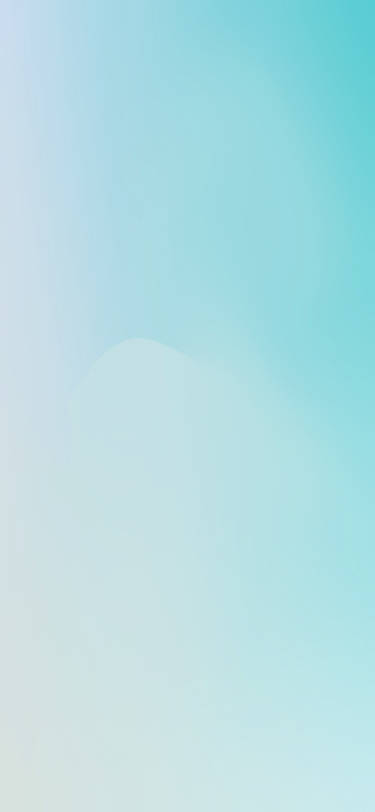
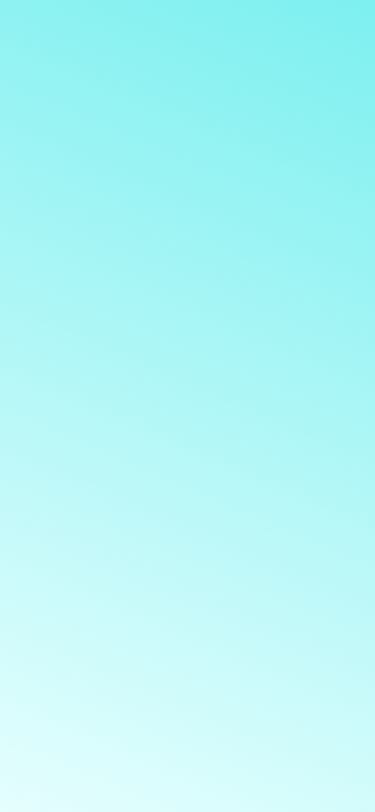
add onboarding_screen.dart

diff --git a/lib/screens/onboarding_screen.dart b/lib/screens/onboarding_screen.dart
@@ -1,0 +1,234 @@
+import 'package:flutter/material.dart';
+import 'package:summify/widgets/backgroung_gradient.dart';
+
+class OnboardingScreen extends StatefulWidget {
+  const OnboardingScreen({super.key});
+
+  @override
+  State<OnboardingScreen> createState() => _OnboardingScreenState();
+}
+
+class _OnboardingScreenState extends State<OnboardingScreen>
+    with TickerProviderStateMixin {
+  late PageController _pageViewController;
+  late TabController _tabController;
+  int _currentPageIndex = 0;
+
+  @override
+  void initState() {
+    super.initState();
+    _pageViewController = PageController();
+    _tabController = TabController(length: 4, vsync: this);
+  }
+
+  @override
+  void dispose() {
+    super.dispose();
+    _pageViewController.dispose();
+    _tabController.dispose();
+  }
+
+  void _handlePageViewChanged(int currentPageIndex) {
+    _tabController.index = currentPageIndex;
+    setState(() {
+      _currentPageIndex = currentPageIndex;
+    });
+  }
+
+  void onPressContinue() {
+    _pageViewController.animateToPage(
+      _currentPageIndex + 1,
+      duration: const Duration(milliseconds: 500),
+      curve: Curves.easeInOut,
+    );
+  }
+
+  @override
+  Widget build(BuildContext context) {
+    return Stack(
+      children: [
+        const BackgroundGradient(),
+        Scaffold(
+          body: Padding(
+            padding: EdgeInsets.only(
+                bottom: MediaQuery.of(context).padding.bottom,
+                left: 0,
+                right: 0,
+                top: MediaQuery.of(context).padding.top),
+            child: Column(
+              mainAxisSize: MainAxisSize.max,
+              mainAxisAlignment: MainAxisAlignment.spaceBetween,
+              crossAxisAlignment: CrossAxisAlignment.stretch,
+              children: [
+                Expanded(
+                  child: PageView(
+                    physics: const ClampingScrollPhysics(),
+                    controller: _pageViewController,
+                    onPageChanged: _handlePageViewChanged,
+                    children: const [
+                      OnboardingScreen1(),
+                      OnboardingScreen2(),
+                      OnboardingScreen3(),
+                      OnboardingScreen4(),
+                    ],
+                  ),
+                ),
+                GestureDetector(
+                  onTap: onPressContinue,
+                  child: Container(
+                    margin: const EdgeInsets.all(15),
+                    padding: const EdgeInsets.symmetric(vertical: 10),
+                    decoration: BoxDecoration(
+                        color: const Color.fromRGBO(31, 188, 183, 1),
+                        borderRadius: BorderRadius.circular(8)),
+                    alignment: Alignment.center,
+                    child: const Text(
+                      'Continue',
+                      style: TextStyle(
+                          fontSize: 18,
+                          fontWeight: FontWeight.w700,
+                          color: Colors.white),
+                    ),
+                  ),
+                ),
+                PageIndicator(
+                  tabController: _tabController,
+                  currentPageIndex: _currentPageIndex,
+                ),
+              ],
+            ),
+          ),
+        )
+      ],
+    );
+  }
+}
+
+class OnboardingScreen1 extends StatelessWidget {
+  const OnboardingScreen1({super.key});
+
+  @override
+  Widget build(BuildContext context) {
+    return const Column(
+      crossAxisAlignment: CrossAxisAlignment.center,
+      mainAxisAlignment: MainAxisAlignment.center,
+      children: [
+        Text('Welcome to Summify',
+            style:
+                TextStyle(fontSize: 46, fontWeight: FontWeight.w700, height: 1),
+            textAlign: TextAlign.center),
+        Divider(
+          color: Colors.transparent,
+        ),
+        Text('Personal AI Summarizer',
+            style:
+                TextStyle(fontSize: 24, fontWeight: FontWeight.w400, height: 1),
+            textAlign: TextAlign.center),
+      ],
+    );
+  }
+}
+
+class OnboardingScreen2 extends StatelessWidget {
+  const OnboardingScreen2({super.key});
+
+  @override
+  Widget build(BuildContext context) {
+    return Column(
+      mainAxisAlignment: MainAxisAlignment.end,
+      children: [
+        const Padding(
+          padding: EdgeInsets.symmetric(horizontal: 20),
+          child: Text('Click "Share" and get a summary',
+              style: TextStyle(
+                  fontSize: 36, fontWeight: FontWeight.w700, height: 1),
+              textAlign: TextAlign.start),
+        ),
+        const Divider(
+          color: Colors.transparent,
+          height: 25,
+        ),
+        Image.asset('assets/onboarding/onboardingImg1.png')
+      ],
+    );
+  }
+}
+
+class OnboardingScreen3 extends StatelessWidget {
+  const OnboardingScreen3({super.key});
+
+  @override
+  Widget build(BuildContext context) {
+    return Column(
+      mainAxisAlignment: MainAxisAlignment.end,
+      children: [
+        const Padding(
+          padding: EdgeInsets.symmetric(horizontal: 20),
+          child: Text('Easy summarize everything',
+              style: TextStyle(
+                  fontSize: 36, fontWeight: FontWeight.w700, height: 1),
+              textAlign: TextAlign.start),
+        ),
+        const Divider(
+          color: Colors.transparent,
+          height: 25,
+        ),
+        Image.asset('assets/onboarding/onboardingImg2.png')
+      ],
+    );
+  }
+}
+
+class OnboardingScreen4 extends StatelessWidget {
+  const OnboardingScreen4({super.key});
+
+  @override
+  Widget build(BuildContext context) {
+    return Column(
+      mainAxisAlignment: MainAxisAlignment.end,
+      children: [
+        const Padding(
+          padding: EdgeInsets.symmetric(horizontal: 20),
+          child: Text('Enjoy on every browser and app',
+              style: TextStyle(
+                  fontSize: 36, fontWeight: FontWeight.w700, height: 1),
+              textAlign: TextAlign.start),
+        ),
+        const Divider(
+          color: Colors.transparent,
+          height: 25,
+        ),
+        Image.asset('assets/onboarding/onboardingImg3.png')
+      ],
+    );
+  }
+}
+
+class PageIndicator extends StatelessWidget {
+  const PageIndicator({
+    super.key,
+    required this.tabController,
+    required this.currentPageIndex,
+  });
+
+  final int currentPageIndex;
+  final TabController tabController;
+
+  @override
+  Widget build(BuildContext context) {
+    return Padding(
+      padding: const EdgeInsets.symmetric(horizontal: 10),
+      child: Row(
+        mainAxisAlignment: MainAxisAlignment.center,
+        children: <Widget>[
+          TabPageSelector(
+            borderStyle: BorderStyle.none,
+            controller: tabController,
+            color: Colors.white,
+            selectedColor: const Color.fromRGBO(31, 188, 183, 1),
+          ),
+        ],
+      ),
+    );
+  }
+}

diff --git a/lib/main.dart b/lib/main.dart
@@ -8,6 +8,7 @@ import 'package:modal_bottom_sheet/modal_bottom_sheet.dart';
 
 import 'package:path_provider/path_provider.dart';
 import 'package:summify/bloc/authentication/authentication_bloc.dart';
+import 'package:summify/screens/onboarding_screen.dart';
 // import 'package:summify/models/models.dart';
 // import 'package:summify/screens/auth/auth_screen.dart';
 // import 'package:summify/screens/summary_screen.dart';
@@ -53,7 +54,7 @@ class SummishareApp extends StatelessWidget {
                 switch (settings.name) {
                   case '/':
                     return MaterialWithModalsPageRoute(
-                        builder: (_) => const MainScreen(), settings: settings);
+                        builder: (_) => const OnboardingScreen(), settings: settings);
                 }
                 return MaterialPageRoute(
                   builder: (context) => Scaffold(
